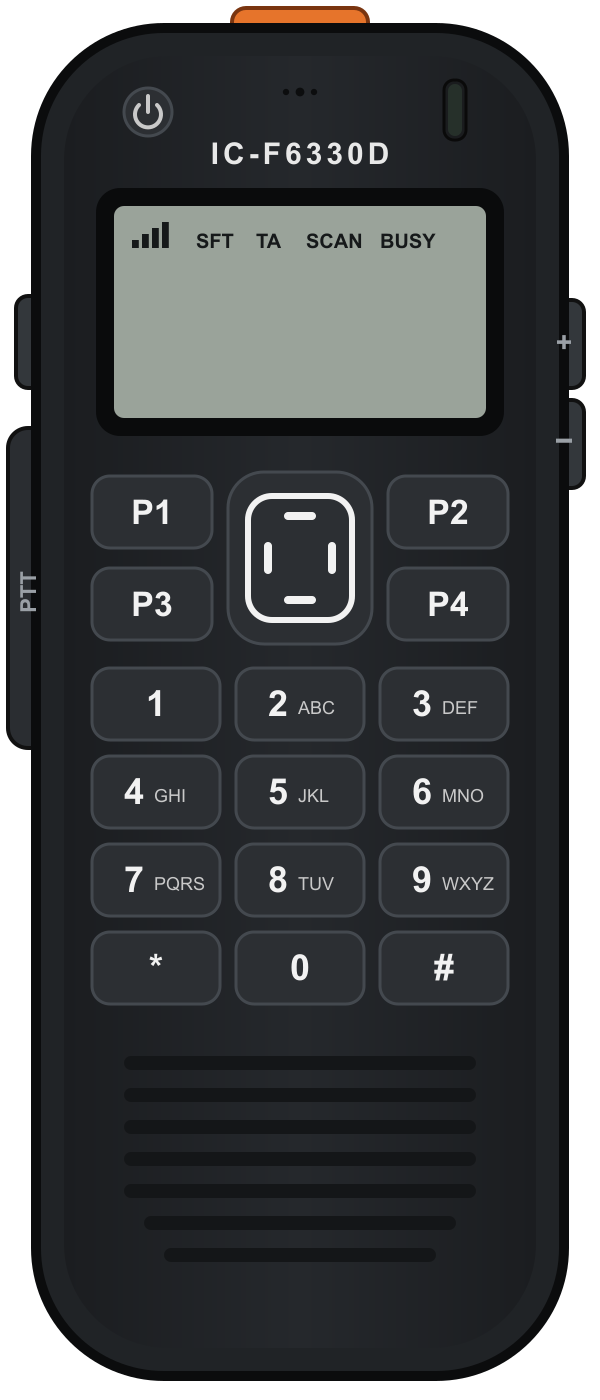
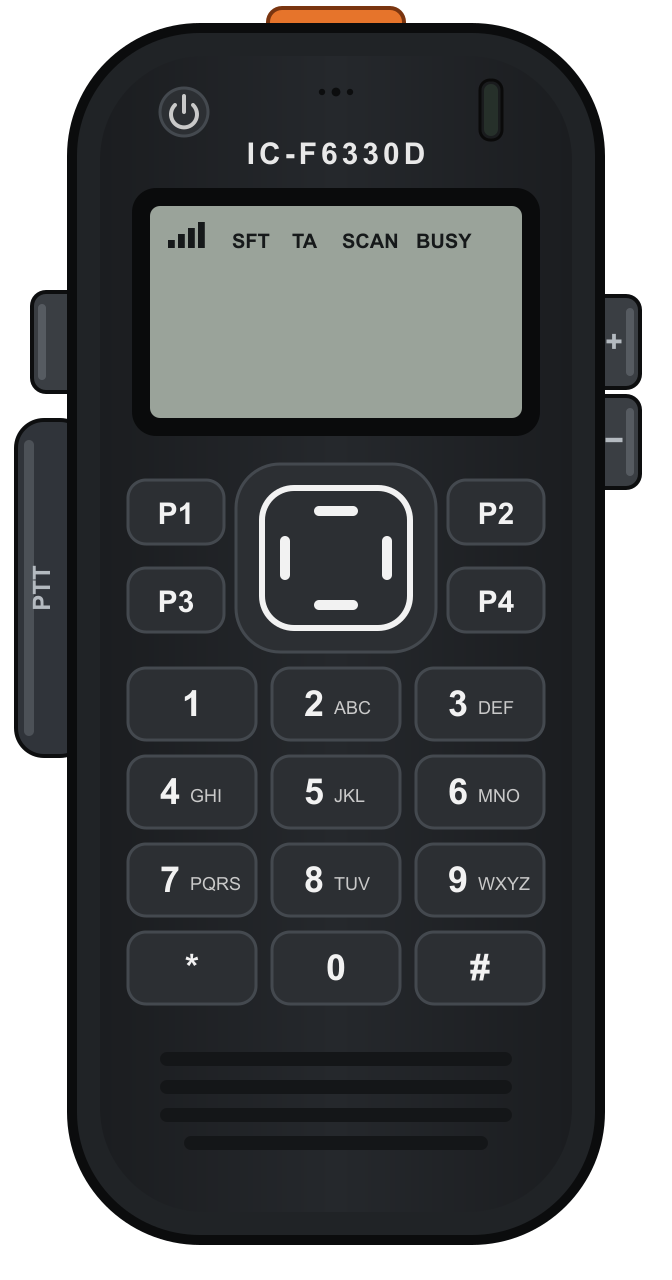
Icom: zone-aware channel presets typed on the keypad; bigger D-pad and side keys on the mic
- Channels change by typing the number on the radio's keypad (icom.direct_entry, entry_digits)
  and are confirmed by the name on the radio's screen
- icom.presets: {zone, number, name}; picking one presses RIGHT/LEFT until the zone's name
  shows, then types the number. icom.zones (RIGHT order) takes the short way round and a
  wrong order still finds the zone. The radio on a non-preset channel lights no button
- Screen names match ignoring case and spacing
- Page shows preset labels (zone · number)
- Mic drawing: smaller P1-P4, larger D-pad, half-height grille, side keys protrude more

Changed region(s): [[0.0, 0.0, 0.99, 1.0], [0.36, 0.0, 0.63, 0.0312], [0.72, 0.0625, 0.78, 0.0938]]

diff --git a/web/app.js b/web/app.js
@@ -1576,7 +1576,7 @@ function buildChannels() {
     const b = document.createElement("button");
     b.dataset.ch = ch.n;
     const label = document.createElement("b");
-    label.textContent = ch.freq ? `CH ${ch.n} · ${ch.freq}` : `CH ${ch.n}`;
+    label.textContent = ch.label || (ch.freq ? `CH ${ch.n} · ${ch.freq}` : `CH ${ch.n}`);
     b.append(label, ch.name);
     b.addEventListener("click", () => send({ type: "channel", action: "goto", channel: ch.n }));
     grid.appendChild(b);

diff --git a/server/icom.py b/server/icom.py
@@ -6,9 +6,13 @@ docs/ICOM-IP-MIC.md):
 
   PTT       01 00 frames; the radio answers by asking for mic audio (01 04 bit 08)
   busy      the radio's green LED (squelch open)
-  channels  UP/DOWN key presses, each confirmed by the channel name on the radio's screen. The
-            names in channel.names must match the screen exactly ("CB Rpt 6"); then the channel
-            also follows anyone changing it on the radio itself.
+  channels  a short list of presets (icom.presets): each is a zone, the channel's number in that
+            zone and the name the radio's screen shows for it. Picking one presses RIGHT/LEFT until
+            the screen shows the zone's name, then types the number on the keypad ("006"), then
+            waits for the channel's name. The page follows the radio too: the preset whose name the
+            screen shows is lit, and when the radio is on anything else, none is (channel 0, named
+            after what the screen shows). Without presets, channel.count/names number the
+            channels in the radio's current zone.
   audio     RTP, 8 kHz 16-bit, resampled to and from audio.wire_rate (IcomAudio below)
   screen    text, icons, LED and backlight go to the web page, which draws the mic, and the keys
             pressed there go back to the radio as key presses
@@ -27,11 +31,20 @@ from .radio import Radio, RadioError
 
 log = logging.getLogger("icom")
 
+OFF_LIST_S = 3.0          # a screen that matches no preset for this long: the radio is off the list
+ZONE_SEARCH_MAX = 10      # RIGHT presses looking for a zone when icom.zones doesn't give the order
 LINK_TIMEOUT_S = 7        # keepalives come every 2 s
 STEP_TIMEOUT_S = 1.5      # a channel key with no new screen after this is a failure
+ENTRY_TIMEOUT_S = 3.0     # typed channel number: time for the radio to show the new channel
+DIGIT_GAP_S = 0.15
 RX_START_MS = 60          # jitter buffer for audio from the radio
 RX_MAX_MS = 300
 KEY_HOLD_MAX_S = 15       # a key held from the page is let go after this, whatever happens
+
+
+def norm(text):
+    """Screen text for comparing: case and runs of spaces don't matter ("CB Ch  9" = "cb ch 9")."""
+    return " ".join(str(text).split()).casefold()
 
 
 class _NetPtt:
@@ -56,16 +69,33 @@ class _NetPtt:
 
 class IcomRadio(Radio):
     kind = "icom"
-    can_sync = True    # "sync" still works when names aren't set up (or don't match the screen)
 
     def __init__(self, cfg, on_change):
         super().__init__(cfg, on_change)
         i, c = cfg["icom"], cfg["channel"]
-        names = {int(k): str(v) for k, v in (c.get("names") or {}).items()}
-        self._init_channels(int(c["count"]), names, int(c["start"]))
-        self._by_name = {v.strip(): k for k, v in names.items()}
+        if i.get("presets"):
+            self.presets = [{"name": " ".join(str(p["name"]).split()), "number": int(p["number"]),
+                             "zone": norm(p["zone"]) if p.get("zone") else None,
+                             "zone_label": str(p["zone"]).strip() if p.get("zone") else None}
+                            for p in i["presets"]]
+        else:
+            names = {int(k): str(v) for k, v in (c.get("names") or {}).items()}
+            self.presets = [{"name": names.get(n, "").strip(), "number": n, "zone": None, "zone_label": None}
+                            for n in range(1, int(c["count"]) + 1)]
+        # "sync" only makes sense when the screen can't tell us (no names to match)
+        self.can_sync = not any(p["name"] for p in self.presets)
+        self._init_channels(len(self.presets), {k: p["name"] for k, p in enumerate(self.presets, 1) if p["name"]},
+                            min(int(c["start"]), len(self.presets)))
+        for p in self.presets:
+            p["key"] = norm(p["name"])
+        self.zones = [norm(z) for z in i.get("zones") or []]
+        self._zone_names = set(self.zones) | {p["zone"] for p in self.presets if p["zone"]}
+        self.zone = None          # the zone the radio is in, once its name has been on the screen
+        self._off_list = None
         self.press_s = c["press_ms"] / 1000
         self.gap_s = c["gap_ms"] / 1000
+        self.direct = bool(i["direct_entry"])
+        self.digits = int(i["entry_digits"])
         ident = bytes.fromhex(i["ident"]) if i.get("ident") else IDENT
         self.mic = Mic(i["listen"], i["radio_ip"], ident, on_display=self._on_display,
                        on_led=self._on_led, on_state=self._on_link,
@@ -88,14 +118,57 @@ class IcomRadio(Radio):
     def _on_display(self, text, flags):
         self.screen.update(text=text, flags={k: v for k, v in flags.items() if k != "raw"})
         self.powered = True
-        n = self._by_name.get(text.strip())
-        if n and n != self.channel:
-            self.channel = n
-            self._save()
+        t = norm(text)
+        if self._off_list:
+            self._off_list.cancel()
+            self._off_list = None
+        if t in self._zone_names:
+            self.zone = t
+        else:
+            n = self._match(t)
+            if n:
+                if n != self.channel:
+                    self.channel = n
+                    self._save()
+            elif t and self.channel and not self.stepping:
+                # Volume, shift, a channel number being typed... come and go. A screen that stays
+                # unmatched means the radio is on a channel that isn't a preset.
+                try:
+                    self._off_list = asyncio.get_running_loop().call_later(OFF_LIST_S, self._went_off_list, t)
+                except RuntimeError:
+                    pass
         if self._screen_seen:
             self._screen_seen.set()
         self._update_error()
         self._soon()
+
+    def _match(self, text):
+        """The preset the screen shows, preferring one in the zone the radio is known to be in."""
+        hits = [k for k, p in enumerate(self.presets, 1) if p["key"] and p["key"] == text]
+        for k in hits:
+            if self.zone is None or self.presets[k - 1]["zone"] in (None, self.zone):
+                return k
+        return hits[0] if hits else None
+
+    def _went_off_list(self, text):
+        self._off_list = None
+        if norm(self.screen["text"]) == text and not self.stepping and self.channel:
+            log.info("radio is on %r, which isn't a preset", text)
+            self.channel = 0
+            self._changed()
+
+    def channel_name(self, n):
+        if n == 0:
+            return self.screen["text"].strip() or "Not a preset"
+        return super().channel_name(n)
+
+    def channel_list(self):
+        out = []
+        for k, p in enumerate(self.presets, 1):
+            num = f"{p['number']:0{self.digits}d}"
+            out.append({"n": k, "name": p["name"] or f"CH {p['number']}",
+                        "label": f"{p['zone_label']} · {num}" if p["zone"] else f"CH {num}"})
+        return out
 
     def _on_led(self, red, green):
         self.screen.update(red=red, green=green, backlight=self.mic.backlight)
@@ -192,6 +265,14 @@ class IcomRadio(Radio):
     async def _tune(self, target):
         if not self.link or self.powered is False:
             raise RadioError(self.error or "Radio not ready")
+        if self.direct:
+            p = self.presets[target - 1]
+            if p["zone"] and p["zone"] != self.zone:
+                await self._go_zone(p["zone"])
+            await self._enter(p["number"], p["key"])
+            self.channel = target
+            self._changed()
+            return
         diff = target - self.channel
         if diff == 0:
             return
@@ -213,12 +294,73 @@ class IcomRadio(Radio):
                 raise RadioError("The radio didn't answer the channel change") from None
             finally:
                 self._screen_seen = None
-            if self.screen["text"].strip() not in self._by_name:
+            if self._match(norm(self.screen["text"])) is None:
                 self.channel = nxt     # names not set up: count the steps instead
             self._changed()
             await asyncio.sleep(self.gap_s)
             if self.channel == target:
                 break
+
+    async def _wait_screen(self, ok, timeout):
+        """Wait until ok(screen text) is true; returns the text, or None after timeout seconds.
+        Call with self._screen_seen set to a fresh Event before the key press that should change
+        the screen, so an update that arrives straight away isn't missed."""
+        loop = asyncio.get_running_loop()
+        deadline = loop.time() + timeout
+        while True:
+            text = norm(self.screen["text"])
+            if ok(text):
+                return text
+            self._screen_seen.clear()
+            left = deadline - loop.time()
+            if left <= 0:
+                return None
+            try:
+                await asyncio.wait_for(self._screen_seen.wait(), left)
+            except asyncio.TimeoutError:
+                pass
+
+    async def _go_zone(self, zone):
+        """RIGHT/LEFT until the screen shows the zone's name. With icom.zones (in RIGHT order) the
+        shorter way round; otherwise RIGHT until it turns up."""
+        if self.zones and zone in self.zones and self.zone in self.zones:
+            d = (self.zones.index(zone) - self.zones.index(self.zone)) % len(self.zones)
+            key, tries = ("right", d) if d <= len(self.zones) / 2 else ("left", len(self.zones) - d)
+        else:
+            key, tries = "right", max(len(self.zones), ZONE_SEARCH_MAX)
+        try:
+            # If icom.zones has the order wrong, carry on round in the same direction.
+            for _ in range(max(tries, ZONE_SEARCH_MAX)):
+                self._screen_seen = asyncio.Event()
+                self.zone = None
+                await self.mic.key(key, self.press_s)
+                if await self._wait_screen(lambda t: t in self._zone_names, STEP_TIMEOUT_S) is None:
+                    raise RadioError("The radio didn't show a zone name after changing zone")
+                if self.zone == zone:
+                    break
+            if self.zone != zone:
+                raise RadioError(f"Couldn't find zone {zone} on the radio")
+            # The zone's name stays up for a moment before its channel shows: type after that.
+            await self._wait_screen(lambda t: t not in self._zone_names, ENTRY_TIMEOUT_S)
+        finally:
+            self._screen_seen = None
+
+    async def _enter(self, number, want):
+        """Type the channel number on the keypad, then wait for the radio to show that channel."""
+        self._screen_seen = asyncio.Event()
+        try:
+            for d in f"{number:0{self.digits}d}":
+                await self.mic.key(d, self.press_s)
+                await asyncio.sleep(DIGIT_GAP_S)
+            if want:
+                ok = lambda t: t == want
+            else:
+                ok = lambda t: bool(t) and not t.startswith("ch") and t not in self._zone_names
+            if await self._wait_screen(ok, ENTRY_TIMEOUT_S) is None:
+                text = self.screen["text"].strip()
+                raise RadioError(f"The radio didn't go to {want or number} (it shows {text or 'nothing'})")
+        finally:
+            self._screen_seen = None
 
     def sync(self, channel):
         if not 1 <= channel <= self.count:

diff --git a/assets/control-head/build_ipmic.py b/assets/control-head/build_ipmic.py
@@ -24,7 +24,8 @@ HERE = Path(__file__).resolve().parent
 WEB = HERE.parent.parent / "web" / "control-head" / "ic-f6330d.svg"
 OUT = HERE / "output"
 
-W, H = 300, 700
+W, H = 300, 640
+PAD = 18           # room left and right of the housing for the side keys
 FONT = 'font-family="Liberation Sans, Arial, Helvetica, sans-serif"'
 MONO = 'font-family="DejaVu Sans Mono, Menlo, Consolas, monospace"'
 KEY_FILL = "#2c2f33"
@@ -53,24 +54,30 @@ def key(name, x, y, w, h, label, sub=None, r=9, size=17):
 
 def body():
     p = []
-    # side keys first, so the housing overlaps their inner edge
-    p.append(rrect(8, 148, 20, 46, 6, "#33373b", 'stroke="#111" stroke-width="2"'))           # SIDE
-    p.append(rrect(4, 214, 24, 160, 10, "#2a2d31", 'stroke="#111" stroke-width="2"'))         # PTT
-    p.append(rrect(272, 150, 20, 44, 6, "#33373b", 'stroke="#111" stroke-width="2"'))         # VOL+
-    p.append(rrect(272, 200, 20, 44, 6, "#33373b", 'stroke="#111" stroke-width="2"'))         # VOL-
+    # side keys first, so the housing overlaps their inner edge; a lighter strip on each gives it
+    # some depth
+    side = 'stroke="#0d0e0f" stroke-width="2"'
+    p.append(rrect(-2, 146, 28, 50, 7, "#3a3e43", side))                                    # SIDE
+    p.append(rrect(1, 152, 4, 38, 2, "#565b61"))
+    p.append(rrect(-10, 210, 36, 168, 14, "#30343a", side))                                 # PTT
+    p.append(rrect(-6, 220, 5, 148, 2.5, "#4c5157"))
+    p.append(rrect(274, 148, 28, 46, 7, "#3a3e43", side))                                   # VOL+
+    p.append(rrect(295, 154, 4, 34, 2, "#565b61"))
+    p.append(rrect(274, 198, 28, 46, 7, "#3a3e43", side))                                   # VOL-
+    p.append(rrect(295, 204, 4, 34, 2, "#565b61"))
     p.append(rrect(116, 4, 68, 22, 7, "#e6742b", 'stroke="#7a3510" stroke-width="2"'))        # EMERG
     # housing and face
-    p.append(rrect(18, 14, 264, 674, 64, "#202326", 'stroke="#0b0c0d" stroke-width="5"'))
-    p.append(rrect(32, 28, 236, 646, 52, "url(#face)"))
+    p.append(rrect(18, 14, 264, 606, 64, "#202326", 'stroke="#0b0c0d" stroke-width="5"'))
+    p.append(rrect(32, 28, 236, 578, 52, "url(#face)"))
     # side key labels and hit areas
-    p.append(f'<text x="18" y="296" {FONT} font-size="11" font-weight="700" fill="#9aa0a6" text-anchor="middle" '
-             f'transform="rotate(-90 18 296)">PTT</text>')
-    p.append(rrect(0, 210, 34, 168, 10, "transparent", 'class="mkey" data-ptt="1" aria-label="PTT"'))
-    p.append(rrect(0, 144, 34, 54, 6, "transparent", 'class="mkey" data-key="side" aria-label="side (squelch)"'))
-    p.append(rrect(266, 146, 34, 52, 6, "transparent", 'class="mkey" data-key="volup" aria-label="volume up"'))
-    p.append(rrect(266, 198, 34, 50, 6, "transparent", 'class="mkey" data-key="voldn" aria-label="volume down"'))
-    p.append(f'<text x="282" y="176" {FONT} font-size="14" font-weight="700" fill="#9aa0a6" text-anchor="middle">+</text>')
-    p.append(f'<text x="282" y="226" {FONT} font-size="16" font-weight="700" fill="#9aa0a6" text-anchor="middle">&#8722;</text>')
+    p.append(f'<text x="7" y="294" {FONT} font-size="12" font-weight="700" fill="#b4bac0" text-anchor="middle" '
+             f'transform="rotate(-90 7 294)">PTT</text>')
+    p.append(rrect(-14, 206, 50, 176, 14, "transparent", 'class="mkey" data-ptt="1" aria-label="PTT"'))
+    p.append(rrect(-6, 142, 40, 58, 7, "transparent", 'class="mkey" data-key="side" aria-label="side (squelch)"'))
+    p.append(rrect(266, 144, 40, 52, 7, "transparent", 'class="mkey" data-key="volup" aria-label="volume up"'))
+    p.append(rrect(266, 196, 40, 52, 7, "transparent", 'class="mkey" data-key="voldn" aria-label="volume down"'))
+    p.append(f'<text x="289" y="176" {FONT} font-size="15" font-weight="700" fill="#b4bac0" text-anchor="middle">+</text>')
+    p.append(f'<text x="289" y="226" {FONT} font-size="17" font-weight="700" fill="#b4bac0" text-anchor="middle">&#8722;</text>')
     p.append(rrect(110, 0, 80, 30, 7, "transparent", 'class="mkey" data-key="emerg" aria-label="emerg (menu)"'))
     # power key (top left) and LED (top right)
     p.append('<circle cx="74" cy="56" r="12" fill="#2c2f33" stroke="#44494f" stroke-width="1.5"/>')
@@ -109,19 +116,19 @@ def lcd():
 
 def keys():
     p = []
-    p.append(key("p1", 46, 238, 60, 36, "P1"))
-    p.append(key("p3", 46, 284, 60, 36, "P3"))
-    p.append(key("p2", 194, 238, 60, 36, "P2"))
-    p.append(key("p4", 194, 284, 60, 36, "P4"))
+    p.append(key("p1", 46, 240, 48, 32, "P1", size=15))
+    p.append(key("p3", 46, 284, 48, 32, "P3", size=15))
+    p.append(key("p2", 206, 240, 48, 32, "P2", size=15))
+    p.append(key("p4", 206, 284, 48, 32, "P4", size=15))
     # D-pad: a rounded square with a white ring and four bars, split into four hit areas
-    p.append(rrect(114, 236, 72, 86, 18, KEY_FILL, f'stroke="{KEY_EDGE}" stroke-width="1.5"'))
-    p.append(rrect(124, 248, 52, 62, 12, "none", f'stroke="{WHITE}" stroke-width="3"'))
-    p.append(f'<rect x="142" y="256" width="16" height="4" rx="2" fill="{WHITE}"/>'
-             f'<rect x="142" y="298" width="16" height="4" rx="2" fill="{WHITE}"/>'
-             f'<rect x="132" y="271" width="4" height="16" rx="2" fill="{WHITE}"/>'
-             f'<rect x="164" y="271" width="4" height="16" rx="2" fill="{WHITE}"/>')
-    for name, (x, y, w, h) in {"up": (126, 236, 48, 26), "down": (126, 296, 48, 26),
-                               "left": (114, 254, 26, 50), "right": (160, 254, 26, 50)}.items():
+    p.append(rrect(100, 232, 100, 94, 22, KEY_FILL, f'stroke="{KEY_EDGE}" stroke-width="1.5"'))
+    p.append(rrect(113, 244, 74, 70, 16, "none", f'stroke="{WHITE}" stroke-width="3"'))
+    p.append(f'<rect x="139" y="253" width="22" height="5" rx="2.5" fill="{WHITE}"/>'
+             f'<rect x="139" y="300" width="22" height="5" rx="2.5" fill="{WHITE}"/>'
+             f'<rect x="122" y="268" width="5" height="22" rx="2.5" fill="{WHITE}"/>'
+             f'<rect x="173" y="268" width="5" height="22" rx="2.5" fill="{WHITE}"/>')
+    for name, (x, y, w, h) in {"up": (113, 232, 74, 34), "down": (113, 292, 74, 34),
+                               "left": (100, 250, 34, 58), "right": (166, 250, 34, 58)}.items():
         p.append(rrect(x, y, w, h, 8, "transparent", f'class="mkey" data-key="{name}" aria-label="{name}"'))
     pad = [("1", ""), ("2", "ABC"), ("3", "DEF"), ("4", "GHI"), ("5", "JKL"), ("6", "MNO"),
            ("7", "PQRS"), ("8", "TUV"), ("9", "WXYZ"), ("*", ""), ("0", ""), ("#", "")]
@@ -133,15 +140,15 @@ def keys():
 
 def grille():
     p = []
-    for i in range(7):
-        y = 528 + i * 16
-        inset = 30 + max(0, i - 4) * 10
+    for i in range(4):
+        y = 526 + i * 14
+        inset = 30 + max(0, i - 2) * 12
         p.append(rrect(32 + inset, y, 236 - 2 * inset, 7, 3.5, "#141618"))
     return "\n".join(p)
 
 
 def svg():
-    return f'''<svg xmlns="http://www.w3.org/2000/svg" viewBox="0 0 {W} {H}" data-template="ipmic" role="group" aria-label="IC-F6330D mic">
+    return f'''<svg xmlns="http://www.w3.org/2000/svg" viewBox="{-PAD} 0 {W + 2 * PAD} {H}" data-template="ipmic" role="group" aria-label="IC-F6330D mic">
 <defs>
   <linearGradient id="face" x1="0" y1="0" x2="1" y2="0">
     <stop offset="0" stop-color="#1b1d20"/><stop offset=".5" stop-color="#25282c"/><stop offset="1" stop-color="#1b1d20"/>

diff --git a/server/config.py b/server/config.py
@@ -43,6 +43,10 @@ DEFAULTS = {
         "rx_gain": 4.0,             # the radio sends audio at about -43 dBFS: bring it up
         "tx_gain": 0.25,            # and expects mic level (peaks about -18 dBFS); too high over-deviates
         "ident": None,              # hex ID sent to the radio (default: the captured mic's)
+        "direct_entry": True,       # change channel by typing its number on the keypad (else UP/DOWN)
+        "entry_digits": 3,          # digits the radio takes for a channel number ("006")
+        "presets": [],              # the channel buttons: [{zone, number, name}] (see config.example.yaml)
+        "zones": [],                # zone names in RIGHT order, as the screen shows them (optional)
         "radio_rtp_port": 50000,    # the radio's RTP port (always 50000 on a real radio; for testing)
     },
     "sa818": {
@@ -303,6 +307,24 @@ def load(path):
         for key in ("rx_gain", "tx_gain"):
             if not 0 < float(i[key]) <= 20:
                 raise SystemExit(f"config: icom.{key} must be more than 0 and at most 20")
+        if not 1 <= int(i["entry_digits"]) <= 4:
+            raise SystemExit("config: icom.entry_digits must be 1-4")
+        presets = i.get("presets") or []
+        if not isinstance(presets, list) or not all(isinstance(p, dict) for p in presets):
+            raise SystemExit("config: icom.presets must be a list of {zone, number, name}")
+        for p in presets:
+            try:
+                num = int(p["number"])
+            except (KeyError, TypeError, ValueError):
+                raise SystemExit(f"config: icom.presets: {p}: needs a number (the channel's number in its zone)") from None
+            if not str(p.get("name") or "").strip():
+                raise SystemExit(f"config: icom.presets: {p}: needs a name, exactly as the radio's screen shows it")
+            if not 1 <= num < 10 ** int(i["entry_digits"]):
+                raise SystemExit(f"config: icom.presets: {p}: number must be 1 to {10 ** int(i['entry_digits']) - 1}")
+        if presets and not i["direct_entry"]:
+            raise SystemExit("config: icom.presets need icom.direct_entry (channels are typed by number)")
+        if not presets and i["direct_entry"] and int(cfg["channel"]["count"]) >= 10 ** int(i["entry_digits"]):
+            raise SystemExit("config: channel.count has more digits than icom.entry_digits")
         if i.get("ident"):
             try:
                 bytes.fromhex(str(i["ident"]))

diff --git a/README.md b/README.md
@@ -449,10 +449,12 @@ to the radio.
 
 1. Give the Pi the mic's IP address (and unplug the mic), or program the radio with the Pi's.
    The radio connects to that address on TCP 52001; audio is RTP on UDP 50000 both ways.
-2. In `config.yaml`: `radio.type: icom`, an `icom:` section (`radio_ip`, gains), and
-   `channel.count` / `channel.names` with the names exactly as the radio's screen shows them.
-   Channel picks on the page press UP/DOWN and wait for each new name, and a channel changed on
-   the radio itself is followed too.
+2. In `config.yaml`: `radio.type: icom` and an `icom:` section (`radio_ip`, gains, presets).
+   The page's channel buttons are `icom.presets`: each gives the zone (LEFT/RIGHT change zone,
+   and each zone has its own channels), the channel's number in it and its name, exactly as the
+   radio's screen shows them. Picking one presses RIGHT/LEFT until the zone's name shows, types
+   the number on the keypad ("006") and waits for the channel's name. Changes made on the radio
+   itself are followed: the matching preset lights up, or none if it's on another channel.
 3. Set `icom.tx_gain` by ear on air: the radio expects mic level, and too much over-deviates.
 
 There is no login or encryption in this protocol: keep it on a private network or VPN.
